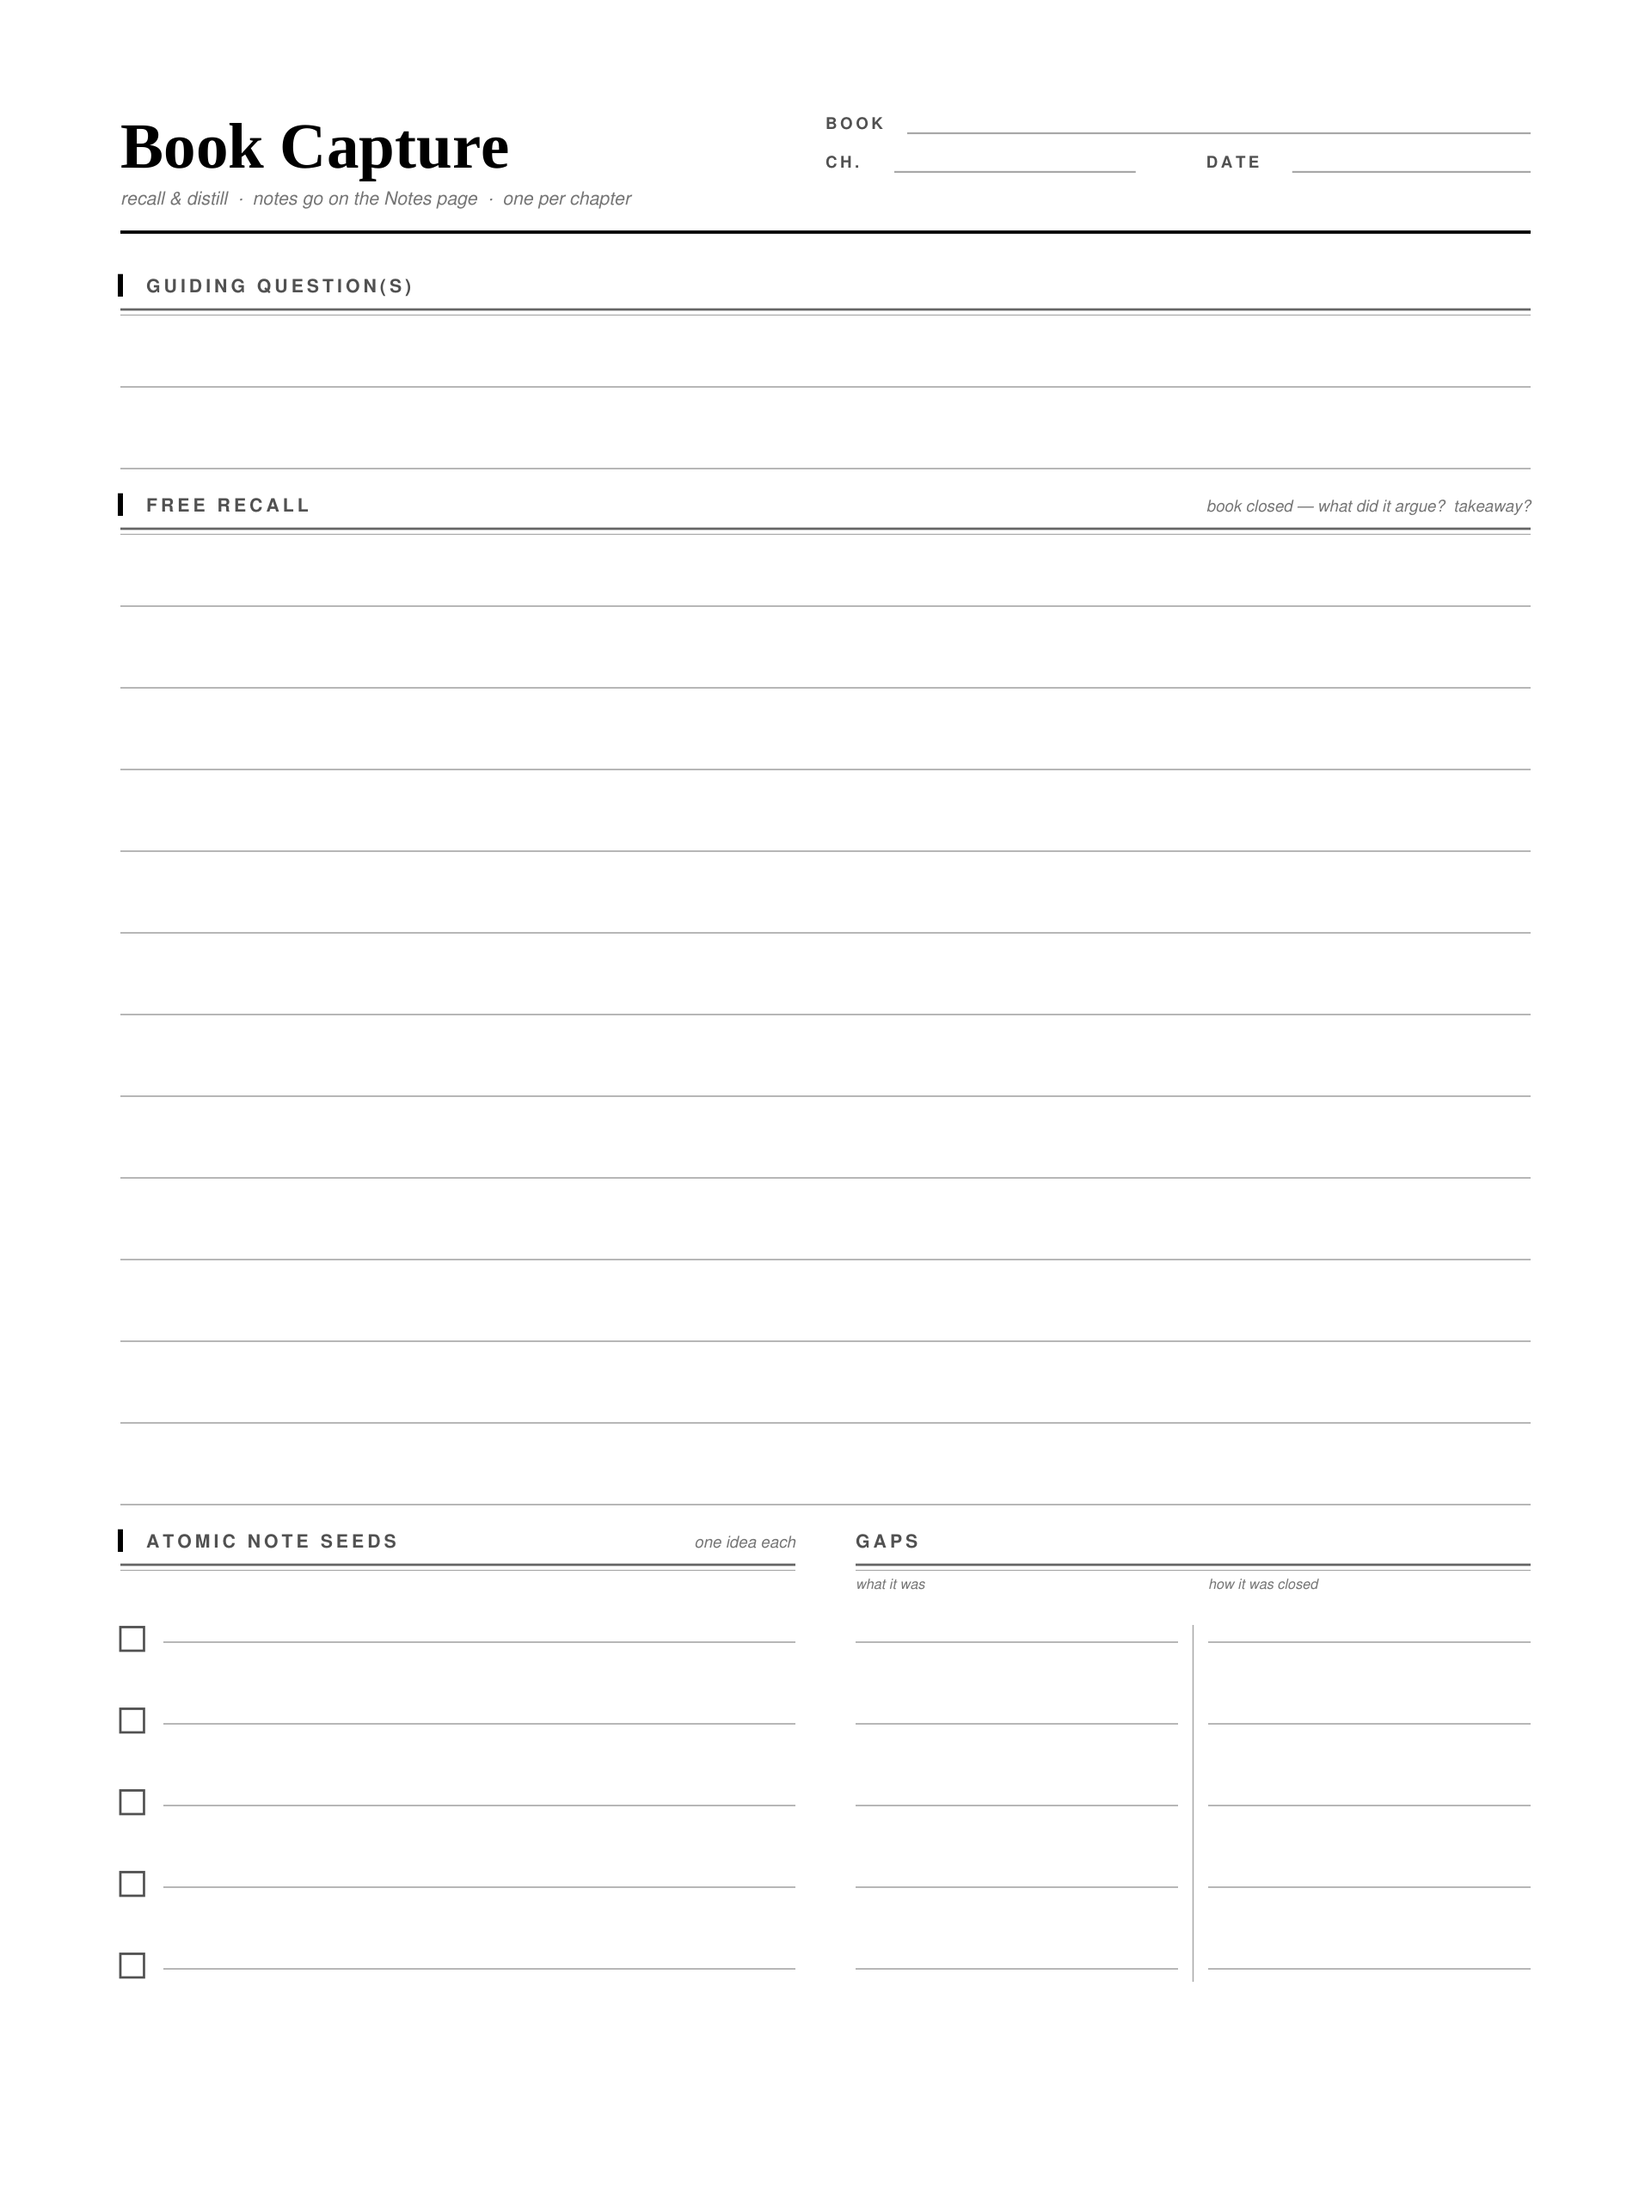
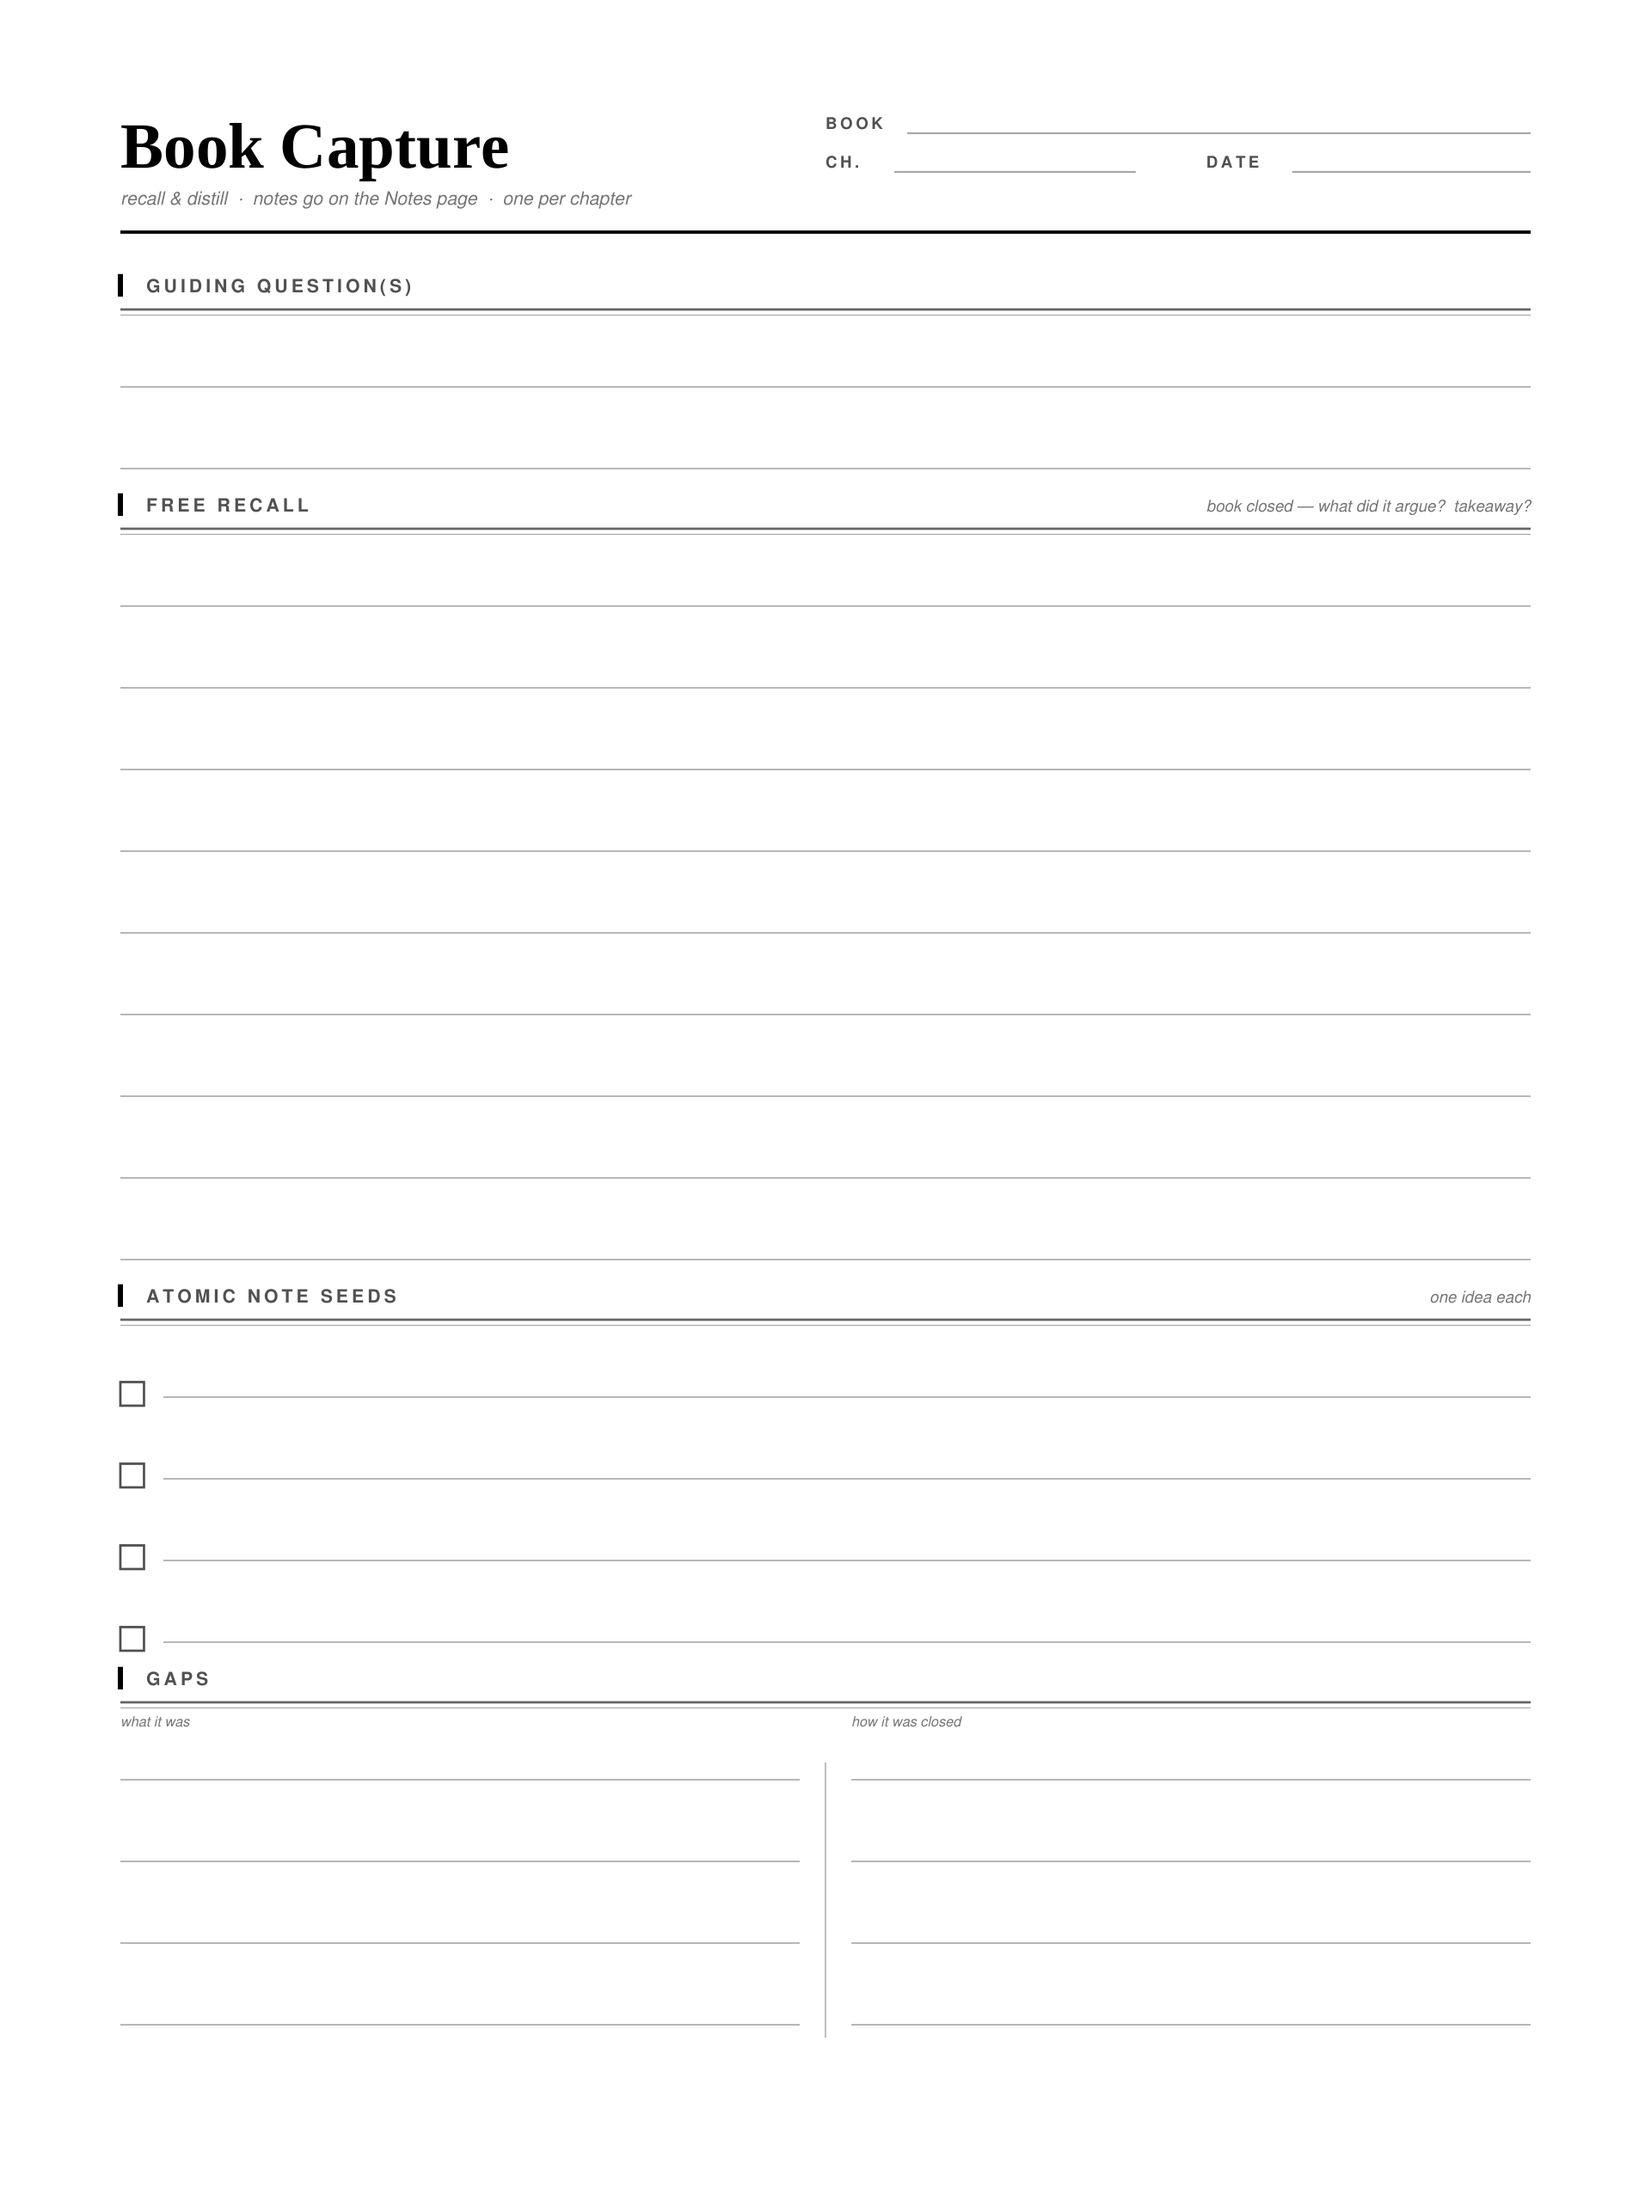
Lead page: stack Atomic seeds and Gaps full-width; trim free recall

diff --git a/templates/cornell_v2.py b/templates/cornell_v2.py
@@ -121,8 +121,9 @@ def write_rules(c, x1, x2, y_first, n, col=WRITE, w=0.8):
 LABEL_GAP = 44.0   # label baseline -> first writing rule (generous clearance under the divider)
 ZONE_GAP  = 20.0   # bottom rule of a zone -> next label baseline
 N_NOTES   = 10     # notes lines on the separate Notes page
-N_RECALL  = 12     # free recall is the hero of the recall page
-N_SEEDS   = 5
+N_RECALL  = 9      # free recall (some space given to the stacked seeds/gaps below)
+N_SEEDS   = 4
+N_GAPS    = 4
 
 
 # ---------- the page ----------
@@ -172,29 +173,29 @@ def design(c):
         hline(c, L, R, fr_top - i * P, col=WRITE)
     fr_bottom = fr_top - (N_RECALL - 1) * P
 
-    # ============ 5. SEEDS + GAPS ============
-    half = (inner - 28) / 2
-    sx1 = L
-    sx2 = L + half + 28
+    # ============ 4. ATOMIC NOTE SEEDS (full width) ============
     seed_label_y = fr_bottom - ZONE_GAP
-    section_label(c, sx1, seed_label_y, sx1 + half, "Atomic note seeds",
-                  helper_text="one idea each")
-    section_label(c, sx2, seed_label_y, sx2 + half, "Gaps", tick=False)
+    section_label(c, L, seed_label_y, R, "Atomic note seeds", helper_text="one idea each")
     seed_top = seed_label_y - LABEL_GAP
-
-    # gaps: two aligned sub-fields — what the gap was, and how it was closed
-    subgap = 14
-    subw = (half - subgap) / 2
-    gx1 = sx2                          # "what it was"
-    gx2 = sx2 + subw + subgap          # "how it was closed"
-    helper(c, gx1, seed_label_y - 19, "what it was", HELP, 6.5)
-    helper(c, gx2, seed_label_y - 19, "how it was closed", HELP, 6.5)
-    vline(c, gx1 + subw + subgap / 2, seed_top + 8, seed_top - (N_SEEDS - 1) * P - 6, col=RULE, w=0.6)
-
     for i in range(N_SEEDS):
         y = seed_top - i * P
-        checkbox(c, sx1, y - 4, 11)
-        hline(c, sx1 + 20, sx1 + half, y, col=WRITE)     # seed line
+        checkbox(c, L, y - 4, 11)
+        hline(c, L + 20, R, y, col=WRITE)
+    seed_bottom = seed_top - (N_SEEDS - 1) * P
+
+    # ============ 5. GAPS (full width, two sub-fields) ============
+    gaps_label_y = seed_bottom - ZONE_GAP
+    section_label(c, L, gaps_label_y, R, "Gaps")
+    subgap = 24
+    subw = (inner - subgap) / 2
+    gx1 = L                          # "what it was"
+    gx2 = L + subw + subgap          # "how it was closed"
+    helper(c, gx1, gaps_label_y - 19, "what it was", HELP, 6.5)
+    helper(c, gx2, gaps_label_y - 19, "how it was closed", HELP, 6.5)
+    gaps_top = gaps_label_y - LABEL_GAP
+    vline(c, gx1 + subw + subgap / 2, gaps_top + 8, gaps_top - (N_GAPS - 1) * P - 6, col=RULE, w=0.6)
+    for i in range(N_GAPS):
+        y = gaps_top - i * P
         hline(c, gx1, gx1 + subw, y, col=WRITE)          # gap: what it was
         hline(c, gx2, gx2 + subw, y, col=WRITE)          # gap: how it was closed
 
